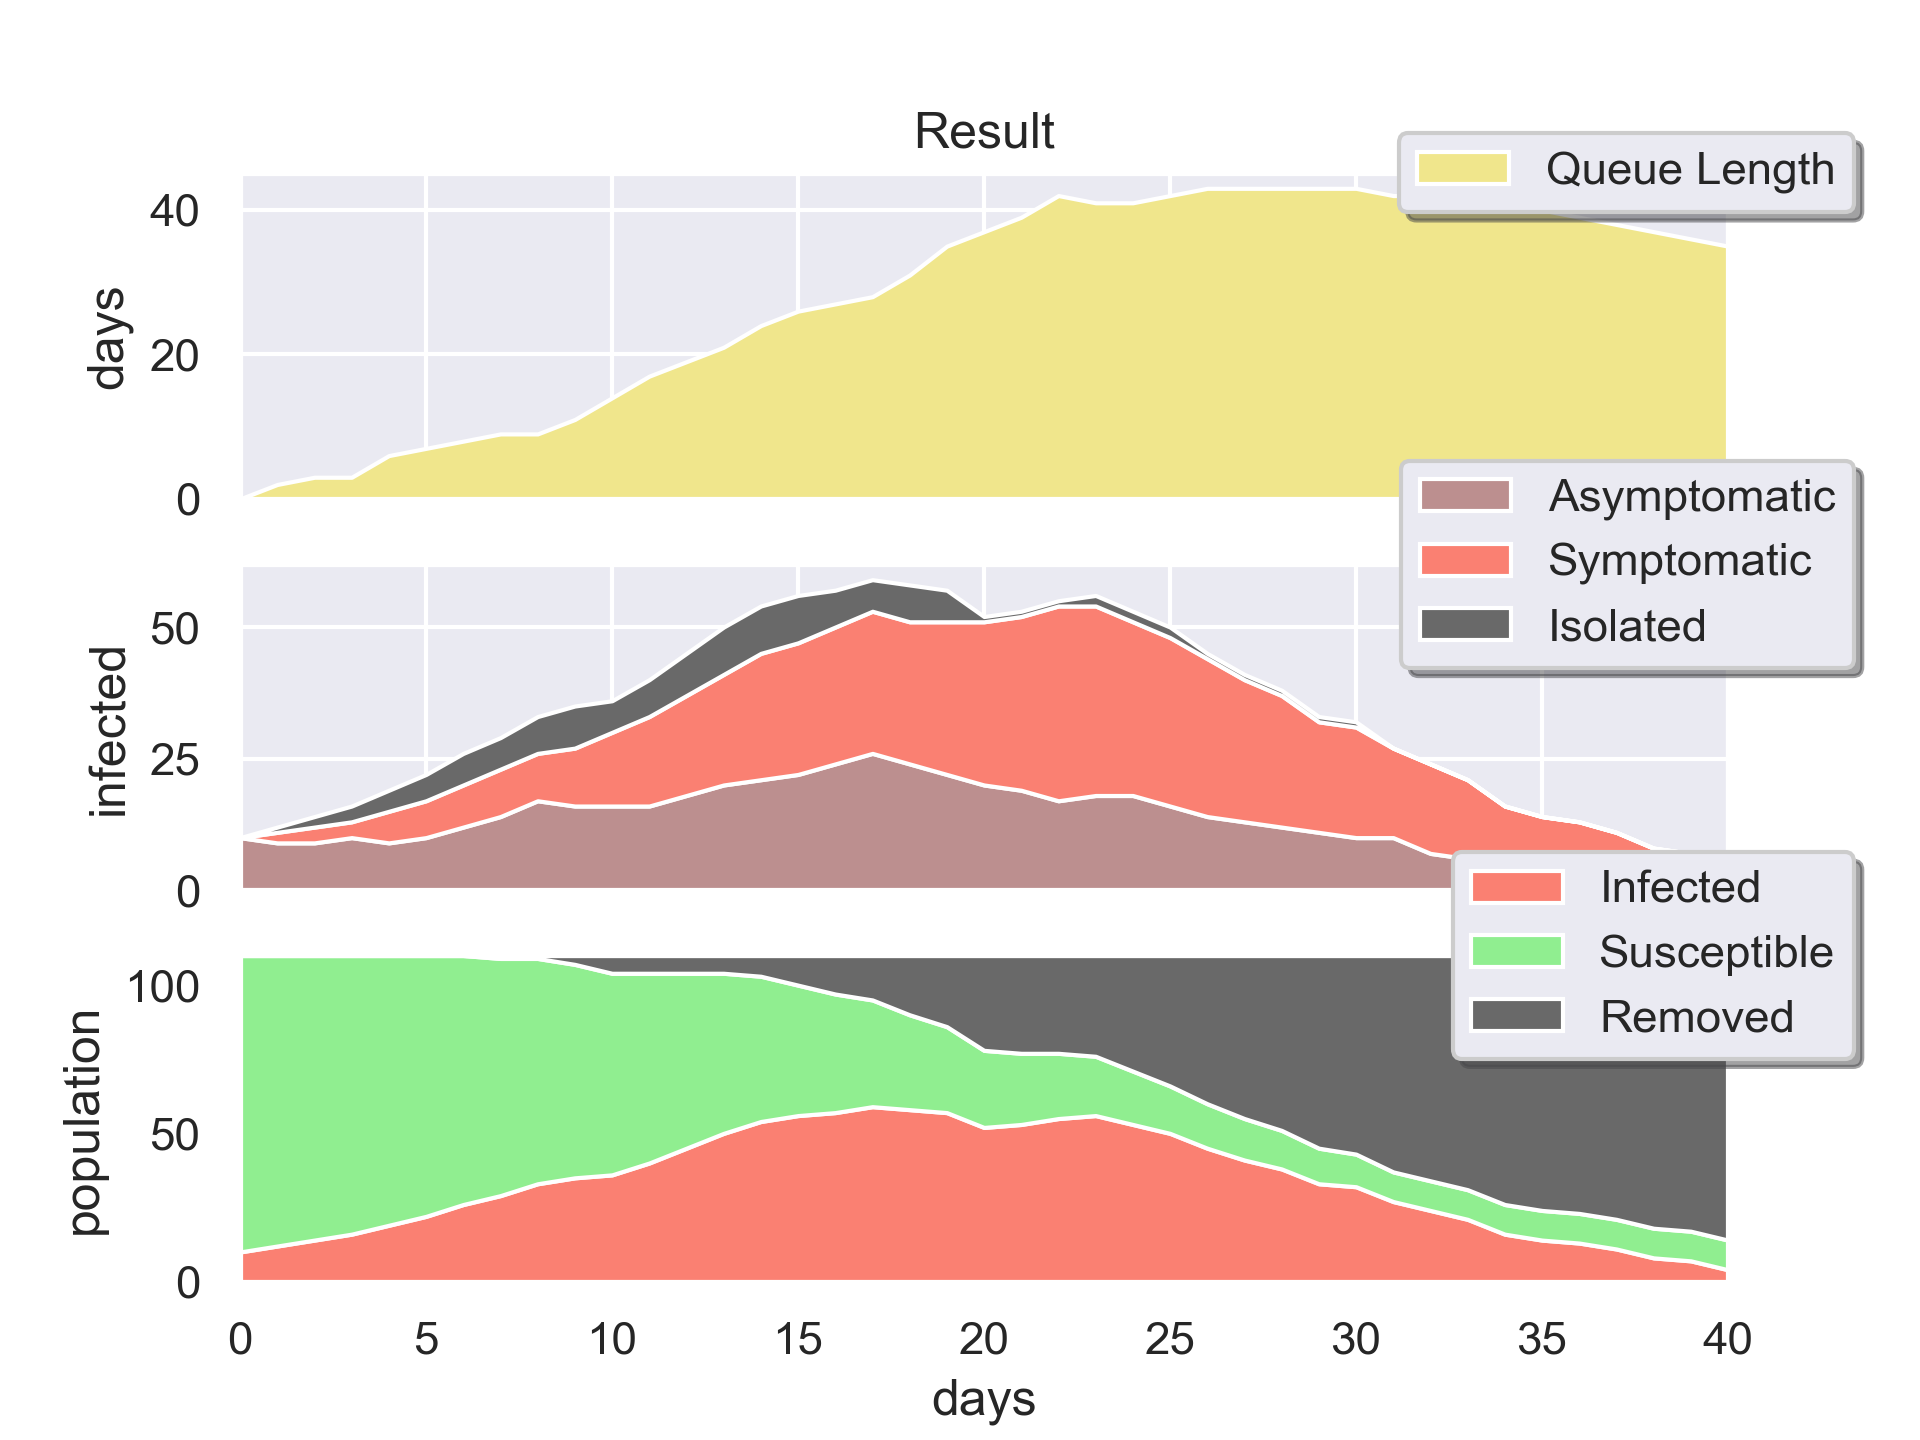
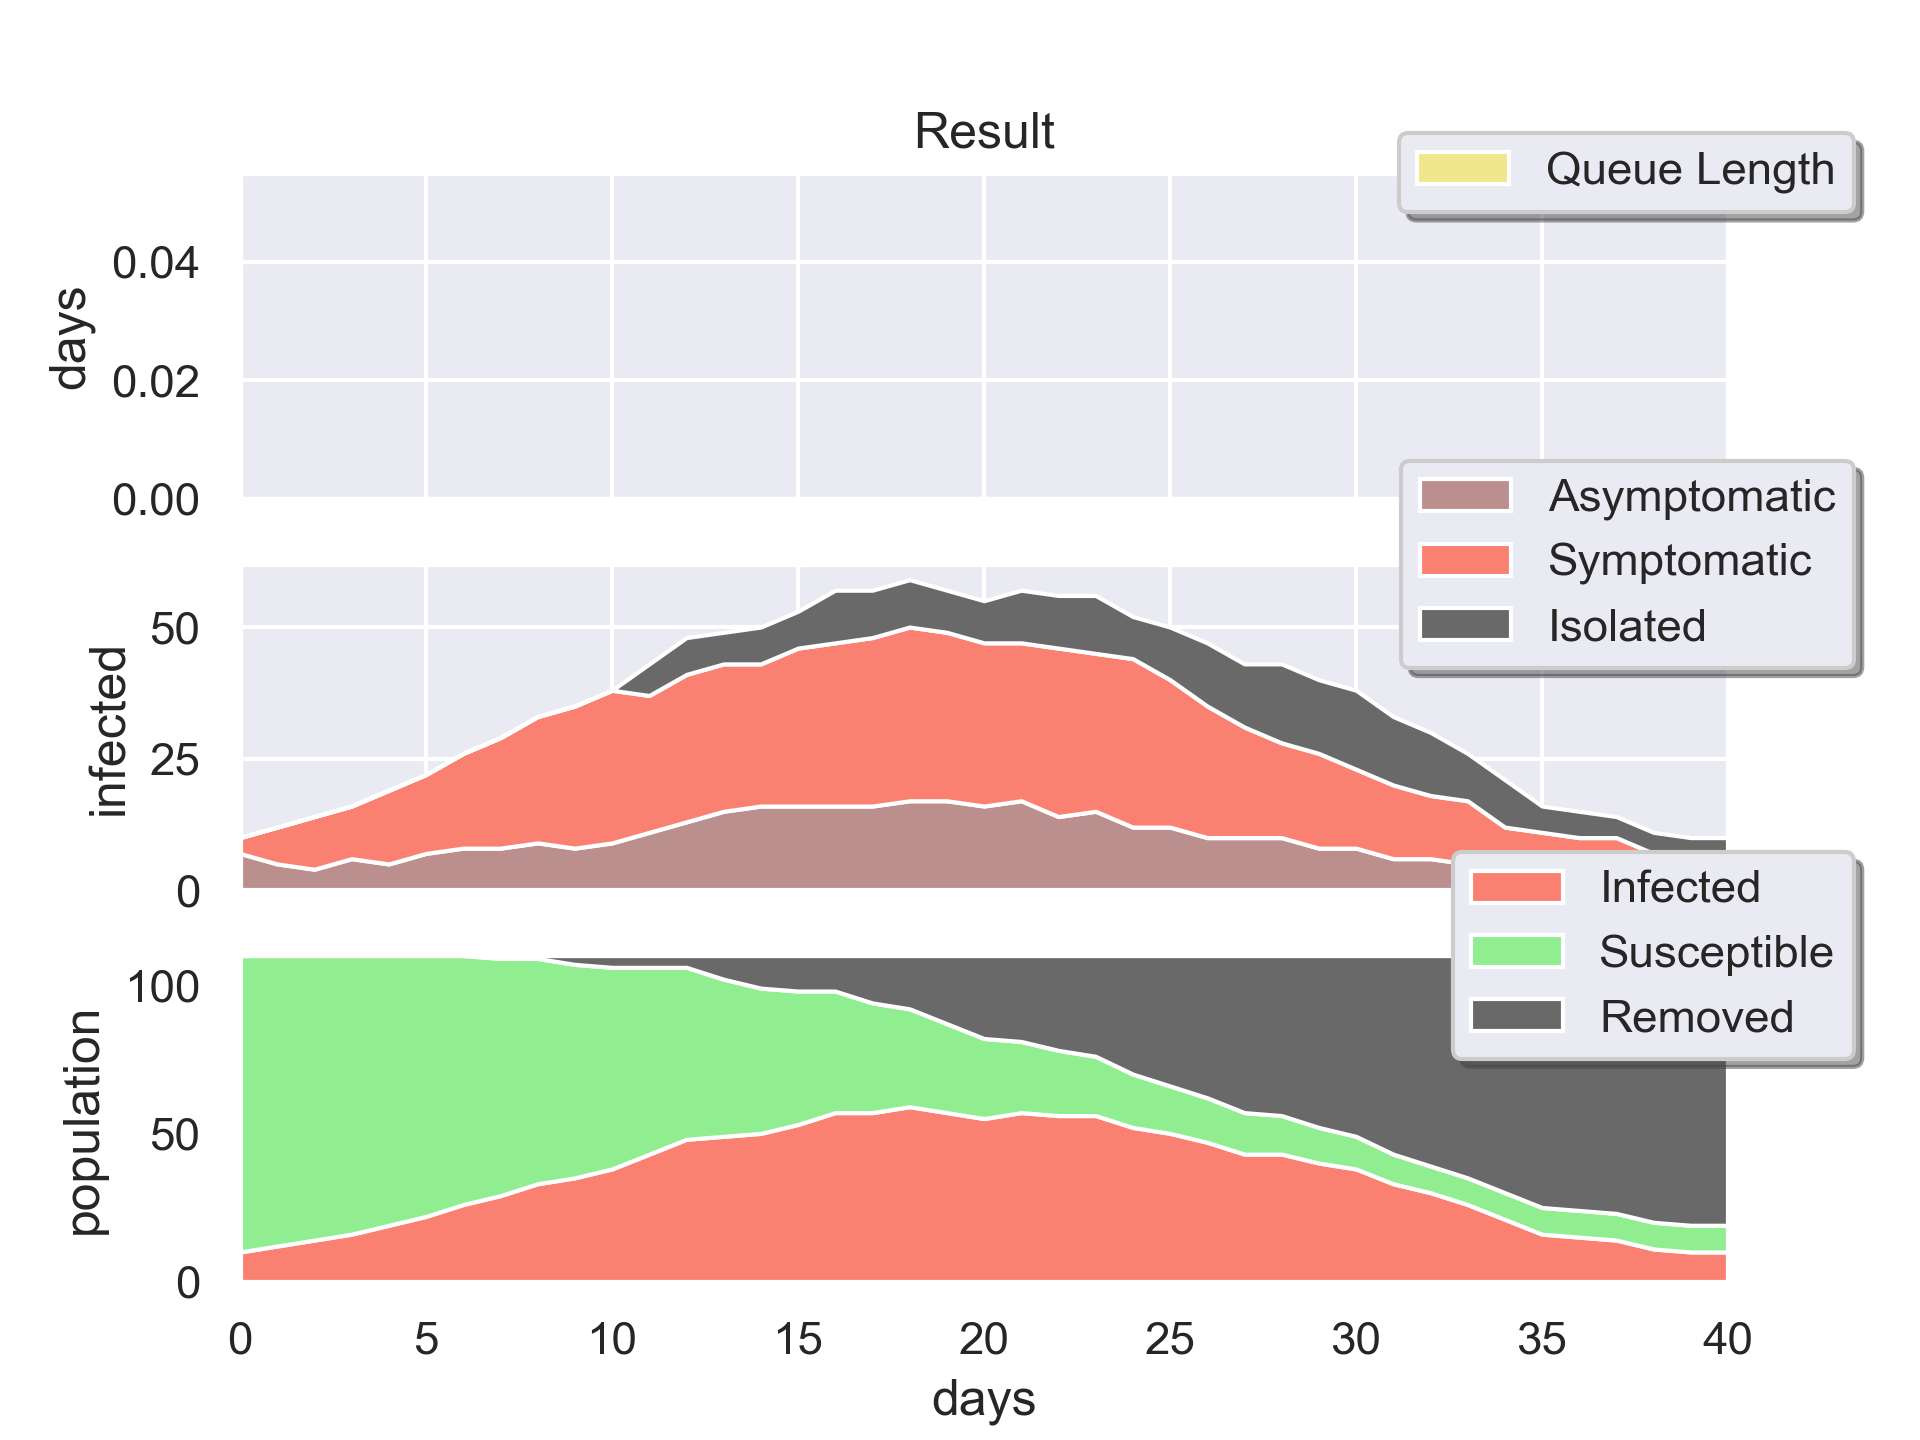
Waiting time for test

diff --git a/person.py b/person.py
@@ -6,11 +6,12 @@ class Person:
     """Person object.
     """
 
-    def __init__(self, deseaseStage, pSymptomatic, tSymptomatic, tRecovery):
+    def __init__(self, deseaseStage, pSymptomatic, tSymptomatic, tRecovery, tTestResult):
         self.PoissonRandomizer = PoissonRandomizer()
         self.PSymptomatic = pSymptomatic
         self.TSymptomatic = tSymptomatic
         self.TRecovery = tRecovery
+        self.TTestResult = tTestResult
 
         self.Stage = deseaseStage
         if deseaseStage == "I":
@@ -20,17 +21,22 @@ class Person:
         self.IsSymptomatic = False
         self.ShouldQueue = False
         self.IsQueued = False
+        self.WillIsolate = False
         self.IsIsolated = False
 
     def Advance(self, t):
         if self.Stage == "I":
             if (not self.IsInfective) and t >= self.InfectiveAt:
                 self.IsInfective = True
-            if self.WillShowSymptomps and (not self.IsSymptomatic) and t >= self.SymptomaticAt:
+                self.InfectiveAt = None
+            if self.WillBeSymptomatic and (not self.IsSymptomatic) and t >= self.SymptomaticAt:
                 self.IsSymptomatic = True
-                self.WillShowSymptomps = None
-                if (not self.ShouldQueue):
-                    (self.ShouldQueue) = True
+                self.WillBeSymptomatic = False
+                self.ShouldQueue = True
+            if self.WillIsolate and (t >= self.IsolateAt):
+                self.IsIsolated = True
+                self.WillIsolate = False
+                self.IsolateAt = None
             if t >= self.RecoverAt:
                 self.Recover(t)
 
@@ -39,8 +45,8 @@ class Person:
         self.InfectiveAt = t+0
         self.RecoverAt = t+self.PoissonRandomizer.fromMean(self.TRecovery)
 
-        self.WillShowSymptomps = np.random.rand() <= self.PSymptomatic
-        if self.WillShowSymptomps:
+        self.WillBeSymptomatic = np.random.rand() <= self.PSymptomatic
+        if self.WillBeSymptomatic:
             self.SymptomaticAt = t + \
                 self.PoissonRandomizer.fromMean(self.TSymptomatic)
 
@@ -53,11 +59,19 @@ class Person:
         self.Stage = "R"
         self.IsInfective = None
         self.IsSymptomatic = None
+        self.WillIsolate = None
         self.IsQueued = None
         self.IsIsolated = None
+        self.IsInfective = None
+        self.IsSymptomatic = None
 
     def Test(self, t):
         # TODO: Delay with time to get result
         if self.Stage == "I":
-            self.IsQueued = False
-            self.IsIsolated = True
+            if self.TTestResult == 0:
+                self.IsQueued = False
+                self.IsIsolated = True
+            else:
+                self.IsQueued = False
+                self.WillIsolate = True
+                self.IsolateAt = t + self.TTestResult

diff --git a/model.py b/model.py
@@ -21,7 +21,7 @@ class Model:
     def __init__(self, duration=100,  # days
                  susceptible=1000, infected=50, queued=0, removed=0,  # initial
                  rateSI=0.1,  # per timeStep
-                 servers=5, serverMu=1, timeForTest=1,  # serverMu in days
+                 servers=5, serverMu=1, tTestResult=1,  # serverMu in days
                  pSymptomatic=.8, tSymptomatic=2, tRecovery=14,  # p-probability, t-time in  days
                  seed=None  # Specify for consistent result
                  ):
@@ -37,6 +37,7 @@ class Model:
 
         self.Servers = servers
         self.ServerMu = serverMu
+        self.TTestResult = tTestResult
 
         self.PSymptomatic = pSymptomatic
         self.TSymptomatic = tSymptomatic
@@ -48,13 +49,13 @@ class Model:
         if seed != None:
             np.random.seed(seed)
 
-        self.People = [Person("S", pSymptomatic, tSymptomatic, tRecovery)
+        self.People = [Person("S", pSymptomatic, tSymptomatic, tRecovery, tTestResult)
                        for i in range(susceptible)] \
-            + [Person("I", pSymptomatic, tSymptomatic, tRecovery)
+            + [Person("I", pSymptomatic, tSymptomatic, tRecovery, tTestResult)
                for i in range(infected)] \
-            + [Person("Q", pSymptomatic, tSymptomatic, tRecovery)
+            + [Person("Q", pSymptomatic, tSymptomatic, tRecovery, tTestResult)
                for i in range(infected)] \
-            + [Person("R", pSymptomatic, tSymptomatic, tRecovery)
+            + [Person("R", pSymptomatic, tSymptomatic, tRecovery, tTestResult)
                for i in range(removed)]
 
     def run(self):
@@ -142,6 +143,7 @@ class Model:
         plt.ylabel('days')
         plt.title(title)
         plt.xlim(startTime, endTime)
+        plt.ylim(0)
         plt.tick_params(
             axis='x',
             which='both',
